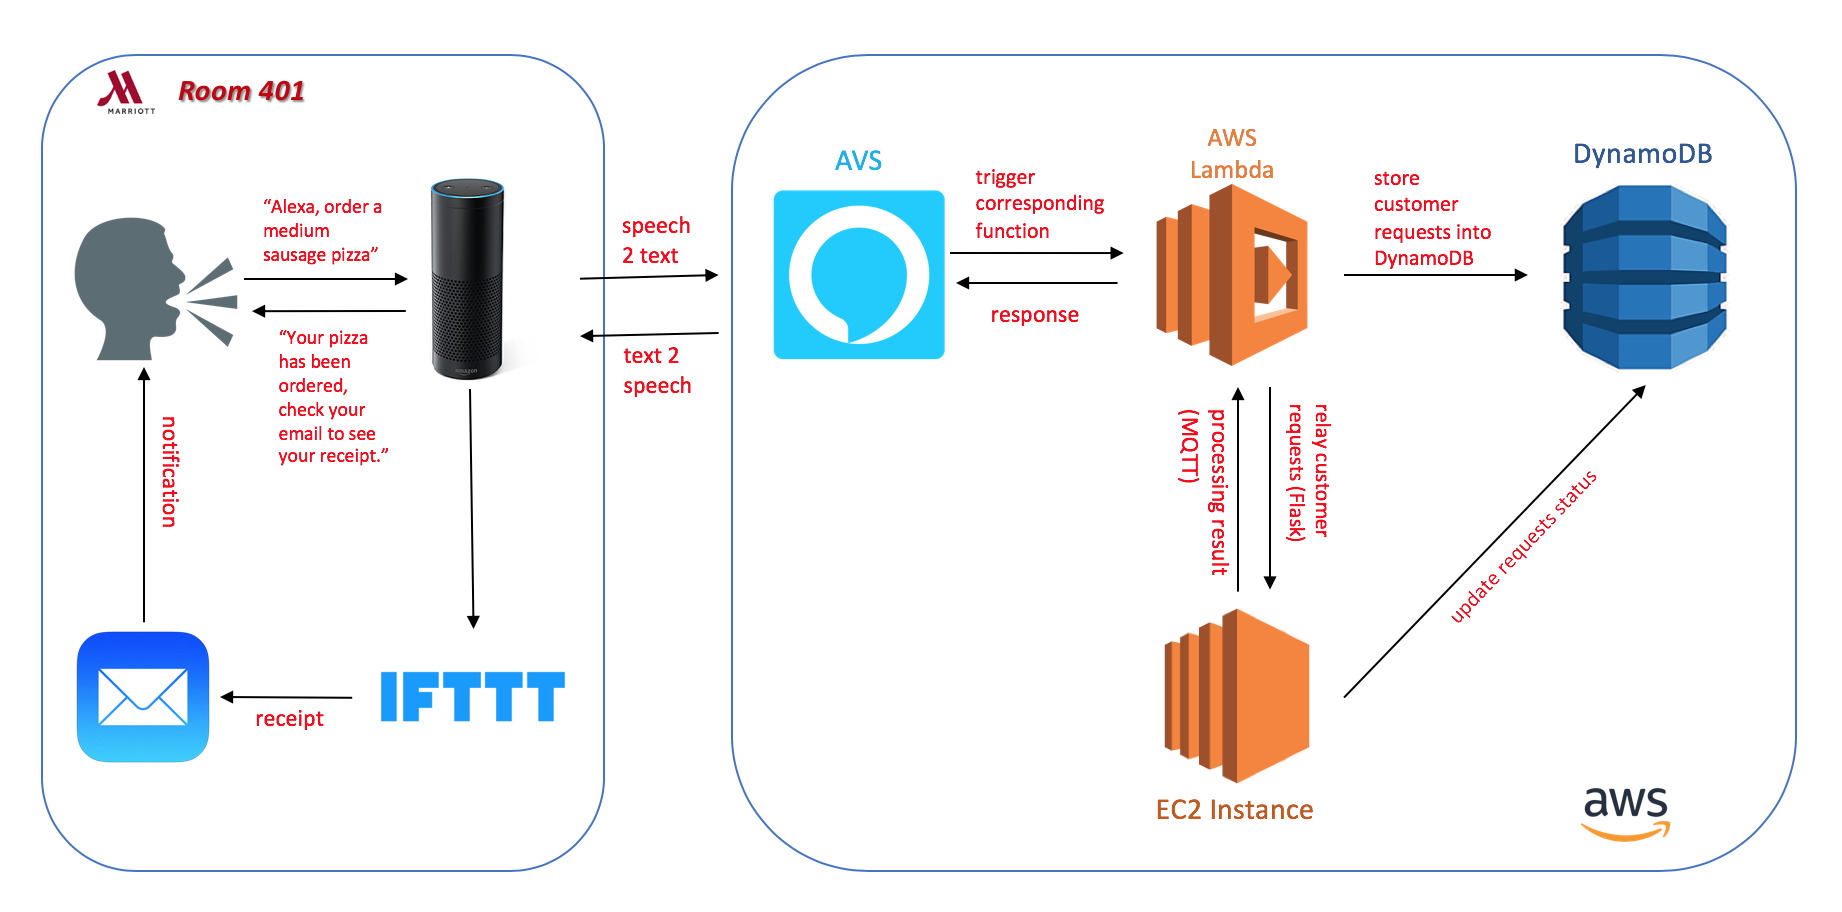
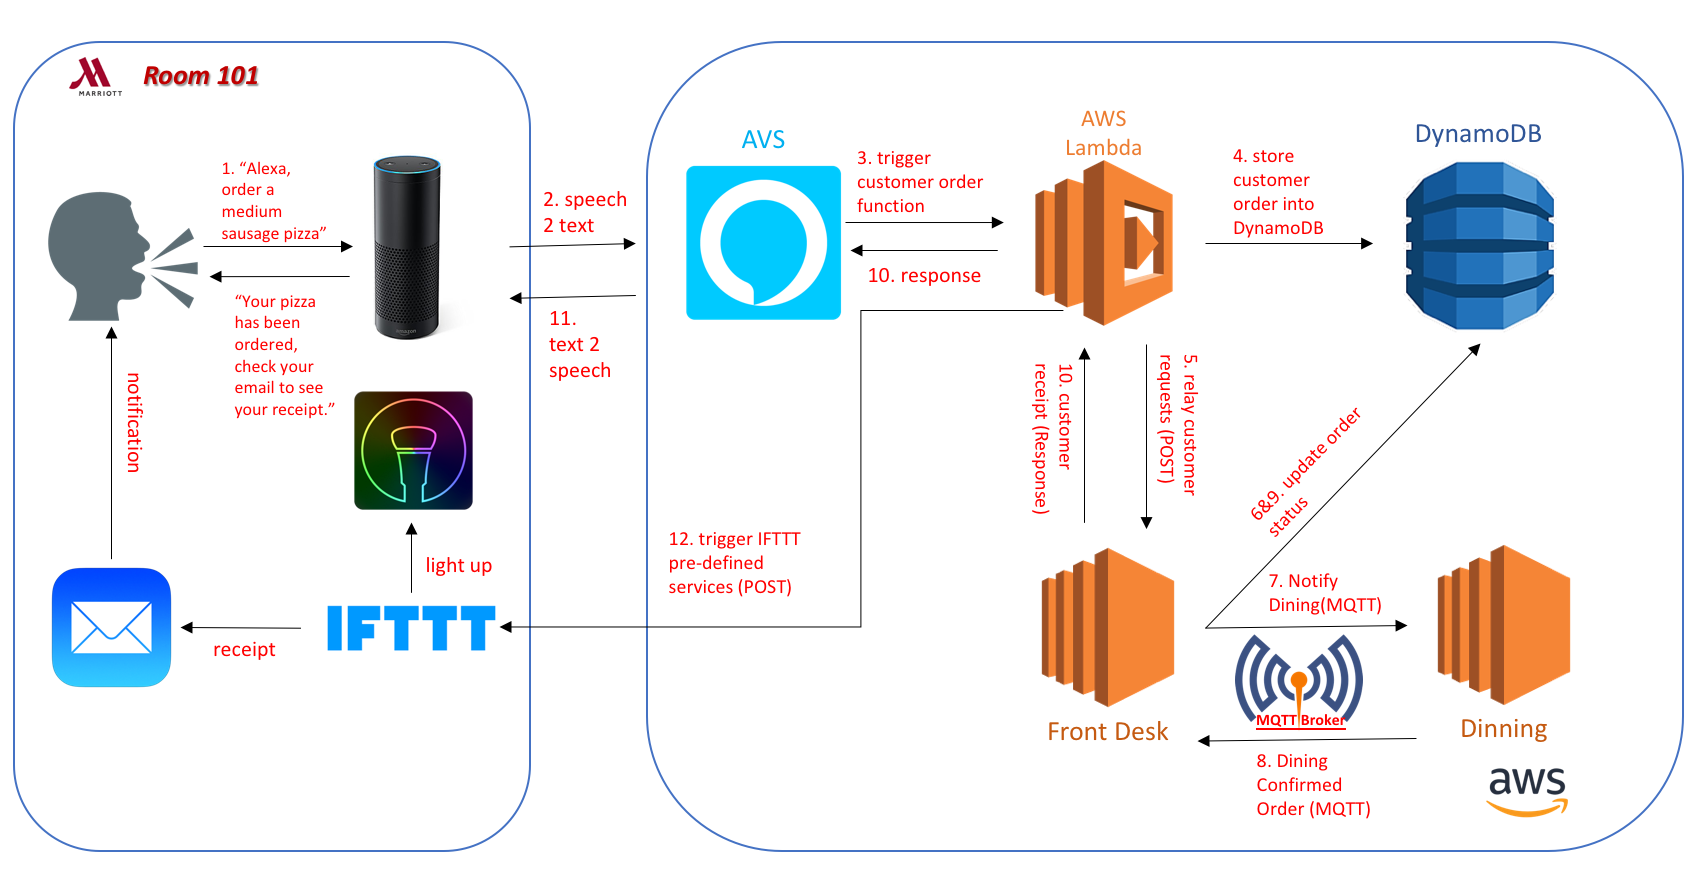
update

diff --git a/InsecureVersion/FrontDesk/main.py b/InsecureVersion/FrontDesk/main.py
@@ -1,20 +1,15 @@
-# Sample code for Marriott Lecture
+# Insecure Version of Marriott Lecture Example Application
 # Vanderbilt University
 # Author: Marriott Lecture Group
 #
-# This file is for Manager in the architecture, whose responsibility is receiving
-# customer requests sent from Lambda Function.
+# This file is for FrontDesk in the architecture, whose responsibility is receiving
+# customer requests sent from Lambda Function, generating order receipt, and notify Dining.
 #
 #
 #   The scenario is pizza ordering through Alexa Echo
 #   Communication Manner:
-#       1. MQTT(Lambda listens responses from Manager): tcp://*.*.*.*:1883
-#       2. Flask(Manager listens requests from Lambda): https://*.*.*.*:5000
-#   Communication Security Issue:
-#       1. MQTT: using public MQTT server
-#       2. Flask: using http instead of https, no http header encryption
-#       3. No message encryption
-#
+#       1. MQTT(Communication between FrontDesk and Dining): tcp://*.*.*.*:1883
+#       2. Flask(Communication between Lambda and FrontDesk): http://*.*.*.*:5000
 #
 
 import boto3
@@ -45,20 +40,51 @@ def init_price_table():
             'Price': 10
         },
         {
+            'Foods': 'pizza',
+            'Size': 'medium',
+            'Price': 20
+        },
+        {
+            'Foods': 'pizza',
+            'Size': 'large',
+            'Price': 30
+        },
+        {
             'Foods': 'burger',
             'Size': 'small',
             'Price': 20
         },
         {
+            'Foods': 'burger',
+            'Size': 'medium',
+            'Price': 30
+        },
+        {
+            'Foods': 'burger',
+            'Size': 'large',
+            'Price': 40
+        },
+        {
             'Foods': 'sandwich',
             'Size': 'small',
             'Price': 30
+        },
+        {
+            'Foods': 'sandwich',
+            'Size': 'medium',
+            'Price': 40
+        },
+        {
+            'Foods': 'sandwich',
+            'Size': 'large',
+            'Price': 50
         }
     ]
     price_table = dynamodb_resource.Table(PRICE_TABLE)
     for itemm in foods_price:
         price_table.put_item(Item=itemm)
 
+# Print Cutomer Receipt
 def print_receipt(body):
     print('>>>>>>>>>>>>>>>>>>>>>>>>>>>>>')
     body.update({'Order Time' : str(datetime.datetime.now())})
@@ -66,7 +92,7 @@ def print_receipt(body):
     print('>>>>>>>>>>>>>>>>>>>>>>>>>>>>>')
     return body
 
-
+# MQTT connect callback function
 def on_connect(client, userdata, flags, rc):
     if rc == 0:
         mqtt_client.connected_flag = True
@@ -74,6 +100,7 @@ def on_connect(client, userdata, flags, rc):
         mqtt_client.connected_flag = False
 
 
+# MQTT callback function when receive messge
 def on_message(client, userdata, message):
     global order_info, order_status_flag
     order_status_flag = True
@@ -94,11 +121,14 @@ def mqtt_handler():
     while not mqtt_client.connected_flag:  # wait in loop
         print("In wait loop")
         time.sleep(1)
+
+    # subscribe all rooms, using MQTT single layer wildcard
     mqtt_client.subscribe(topic='%s/+' % ORDER_STATUS)
     mqtt_client.loop_forever()
     mqtt_client.disconnect()
 
 
+# Define REST function
 @app.route('/customer_order', methods=['POST'])
 def handler():
     global order_status_flag
@@ -120,9 +150,11 @@ def handler():
     # print customer receipt
     receipt = print_receipt(json_body)
 
-    # respond Lambda using MQTT
+    # publish order information to Dining
     mqtt_client.publish(topic='%s/%s' % (FD_TOPIC,
                                          json_body['Room']), payload=simplejson.dumps(receipt))
+    
+    # wait until received response from Dining
     while not order_status_flag:
         time.sleep(1)
     order_status_flag = False

diff --git a/InsecureVersion/Lambda/app.py b/InsecureVersion/Lambda/app.py
@@ -1,27 +1,17 @@
-# Sample code for Marriott Lecture
+# Insecure Version of Marriott Lecture Example Application
 # Vanderbilt University
 # Author: Marriott Lecture Group
 #
 #
-# Codes in this file should be placed in a AWS Lambda function
-# to handle incoming requests from AVS and return a response.
-# Before returning a response, the handler should relay request
-# information to Manager and store data into DynamoDB.
+# Responsibilities of this Lambda Function:
+#   1. Handler of Alexa Custom Skill
+#   2. Replay requests to FrontDesk
+#   3. Initial requests records in DynamoDB
+#   4. Receive response from FrontDesk and trigger IFTTT email and Hue lamp
 #
-#
-#   The scenario is pizza ordering through Alexa Echo
-#   Communication Manner:
-#       1. MQTT(Lambda listens responses from Manager): tcp://*.*.*.*:1883
-#       2. Flask(Manager listens requests from Lambda): https://*.*.*.*:5000
-#   Communication Security Issue:
-#       1. MQTT: using public MQTT server
-#       2. Flask: using http instead of https, no http header encryption
-#       3. No message encryption
-#   Alexa handler is implemented using handler classes involved by the Alexa skill kit SDK(ask-sdk).
-#
-#
-#   Expect Echo output: "Your pizza has been ordered, and please check
-#   your email to see your receipt."
+#   
+# Communication Manner:
+#   Http POST: http://*.*.*.*:5000/customer_order
 #
 #
 

diff --git a/InsecureVersion/Dining/main.py b/InsecureVersion/Dining/main.py
@@ -1,19 +1,13 @@
-# Sample code for Marriott Lecture
+# Insecure Version of Marriott Lecture Example Application
 # Vanderbilt University
 # Author: Marriott Lecture Group
 #
-# This file is for Manager in the architecture, whose responsibility is receiving
-# customer requests sent from Lambda Function.
-#
+# This file is for the Dining in the architecture, whose responsibility is verifying customer order
+# relayed from the FrontDesk by updating entries in DynamoDB.
 #
 #   The scenario is pizza ordering through Alexa Echo
 #   Communication Manner:
-#       1. MQTT(Lambda listens responses from Manager): tcp://*.*.*.*:1883
-#       2. Flask(Manager listens requests from Lambda): https://*.*.*.*:5000
-#   Communication Security Issue:
-#       1. MQTT: using public MQTT server
-#       2. Flask: using http instead of https, no http header encryption
-#       3. No message encryption
+#       1. MQTT(Communication between the FrontDesk and the Dining): tcp://*.*.*.*:1883
 #
 #
 

diff --git a/README.md b/README.md
@@ -1,8 +1,38 @@
-# Marriott-Lecture
+# Marriott-Lecture Example Application
+
+This is a simple example application for Marriott Lecture. There are two versions of this application with regard to security concern. The purpose of this application is helping students obtain a basic understanding of IoT application and some common used techniques.
+
+## Prerequisites
+
+- EC2 Instance with Ubuntu 18.04
+- DynamoDB
+- AWS Lambda
+- Alexa Echo
+- IFTTT
+- Philips Hue
+
+## Application Scenario
+
+The scenario of this application is processing customer foods ordering request based on Alexa Echo. The requests processing procedures consist of three parts, Alexa, FrontDesk and Dining. The FrontDesk plays the role of receiveing requests from Alexa(supported by AWS Lambda), generating order recipt, also relaying requests to Dining. Then Dining room can confirm order and start preparing foods, which is actually simulating the foods ordering procedures in real world. In addition, when the processing result is returned from the FrontDesk, Lambda function not only returns speech text to AVS, but also triggers two events pre-defined in IFTTT: emailing receipt to customer and lighting up the Philips Hue lamp.
+
+![Scenario](./images/scenario.PNG)
 
 ## System Architecture
 
 ![System Architecture](./images/ArchitectureDesign.PNG)
 
-## Alexa Customer Order Skill Mindmap
-![Mindmap](images/AlexaMindmap.png) 
+## Software Dependencies
+
+- Python3
+- MQTT
+- Flask
+
+## Key Techniques
+
+- Alexa Custom Skill
+
+    ![Alexa](./images/AlexaCustomSkill.png)
+
+- MQTT
+
+    ![mqtt](./images/mqtt.png)
